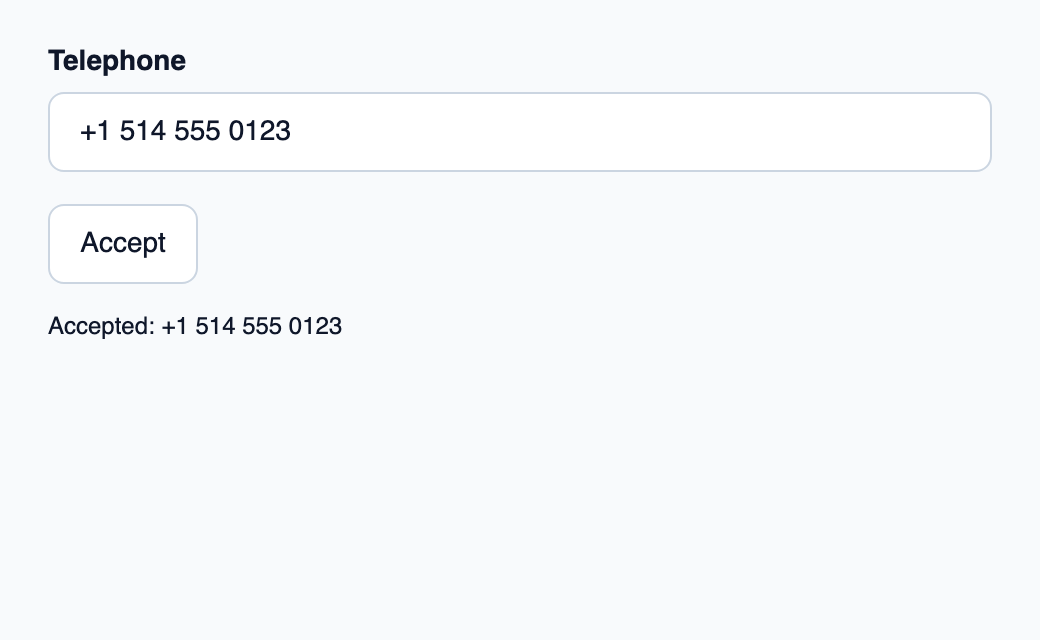
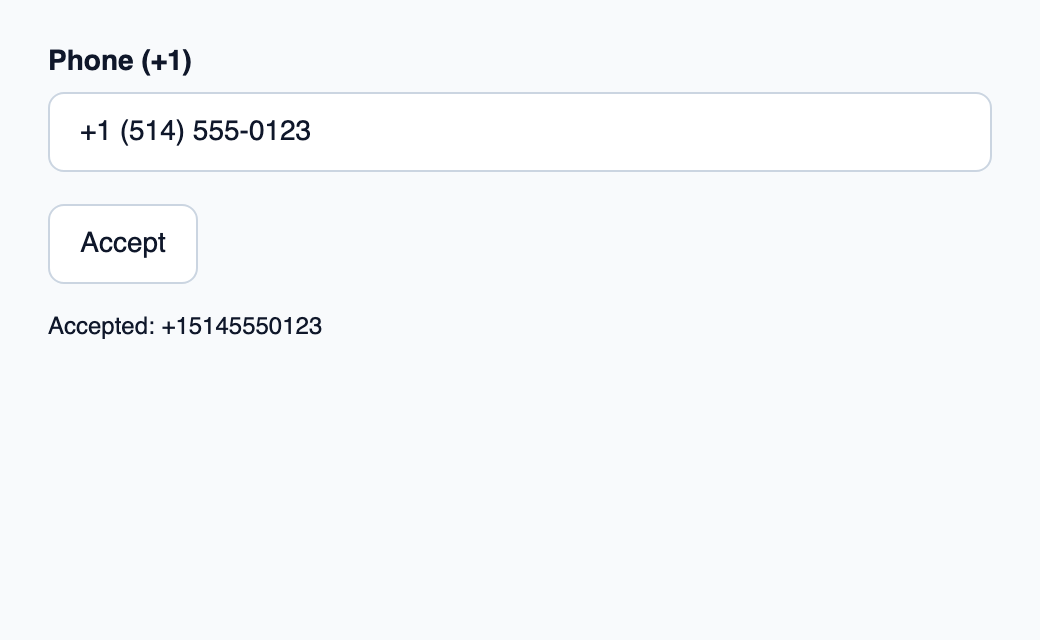
Document strict phone options and refresh the 0.3.1 telephone example

Changed region(s): [[0.0308, 0.0625, 0.1846, 0.125], [0.1846, 0.4688, 0.3385, 0.5312], [0.0923, 0.1875, 0.3077, 0.2188]]

diff --git a/docs/quickstart/telephone-field/src/main.rs b/docs/quickstart/telephone-field/src/main.rs
@@ -1,25 +1,18 @@
 use slint::ComponentHandle;
 use slint_kit::*;
 slint::include_modules!();
-#[derive(Clone, PartialEq)]
-struct Value(String);
-fn parse(text: &str) -> DraftValue<Value> {
-    if text.is_empty() {
-        DraftValue::Empty
-    } else {
-        DraftValue::Parsed(Value(text.into()))
-    }
+fn rules() -> PhoneRules {
+    PhoneRules::exact(slint_kit::PhoneNumberMode::International, 11).expect("11 digit phone rule")
 }
-fn format(value: &Value) -> String {
-    value.0.clone()
-}
+fn parse(text: &str) -> DraftValue<PhoneNumber> { rules().parse(text) }
+fn format(value: &PhoneNumber) -> String { value.as_str().into() }
 fn main() -> Result<(), slint::PlatformError> {
     let app = App::new()?;
     slint_kit::init_form_validation!(self, app);
-    let initial = Value("+1 514 555 0123".into());
+    let initial = rules().validate("+15145550123").unwrap().unwrap();
     app.set_accepted(format(&initial).into());
     let weak = app.as_weak();
-    let field = FieldBinding::<Value, ()>::new(
+    let field = FieldBinding::<PhoneNumber, ()>::new(
         Some(initial),
         Ownership::Local,
         CommitPolicy::OnBlur,
@@ -29,13 +22,17 @@ fn main() -> Result<(), slint::PlatformError> {
         |_| String::new(),
         move |view| {
             if let Some(app) = weak.upgrade() {
+                let intrinsic_invalid = view.html_validity.is_some_and(|flags| !flags.valid());
                 app.set_draft(view.draft.into());
-                app.set_error(view.error.into());
+                // The control presents matching intrinsic rules; Rust keeps business errors.
+                app.set_error(if intrinsic_invalid { String::new() } else { view.error }.into());
             }
         },
     );
+    field.set_draft_normalizer(|text| normalize_phone(text).map_err(|_| ParseIssue::InvalidSyntax));
     field.set_html_constraints(slint_kit::HtmlConstraints {
         kind: slint_kit::HtmlInputKind::Telephone, required: true,
+        pattern: Some(HtmlPattern::compile(r"\+1[0-9]{10}").expect("valid +1 pattern")),
         ..Default::default()
     });
     let weak = app.as_weak();

diff --git a/docs/scripts/pack-starters.py b/docs/scripts/pack-starters.py
@@ -5,6 +5,7 @@ from pathlib import Path
 import json
 import shutil
 import zipfile
+import tomllib
 
 root = Path(__file__).resolve().parents[2]
 docs = root / 'docs'
@@ -14,8 +15,10 @@ output.mkdir(parents=True)
 for slug in json.loads((docs / 'content/starters.json').read_text()):
     folder = docs / 'quickstart' / slug
     files = {name: (folder / name).read_bytes() for name in ['Cargo.toml', 'Cargo.lock', 'build.rs', 'src/main.rs', 'ui/app.slint']}
+    dependency = tomllib.loads(files['Cargo.toml'].decode())['dependencies']['slint-kit']
+    kit_version = (dependency if isinstance(dependency, str) else dependency['version']).removeprefix('=')
     files['LICENSE'] = (root / 'LICENSE').read_bytes()
-    files['README.md'] = f'# Slint Kit: {slug}\n\nRequires Rust1.92+. Run `cargo run --locked` in this folder.\n\nThis native example consumes Slint Kit0.3.0 and Slint1.18.1 from crates.io.\n\nhttps://slint-kit.dev/components/{slug}/\n'.replace('Rust1.92', 'Rust 1.92').replace('Kit0.3', 'Kit 0.3').replace('Slint1.18', 'Slint 1.18').encode()
+    files['README.md'] = f'# Slint Kit: {slug}\n\nRequires Rust1.92+. Run `cargo run --locked` in this folder.\n\nThis native example consumes Slint Kit{kit_version} and Slint1.18.1 from crates.io.\n\nhttps://slint-kit.dev/components/{slug}/\n'.replace('Rust1.92', 'Rust 1.92').replace('Kit0.3', 'Kit 0.3').replace('Slint1.18', 'Slint 1.18').encode()
     with zipfile.ZipFile(output / f'{slug}.zip', 'w', compression=zipfile.ZIP_DEFLATED) as archive:
         for name, content in sorted(files.items()):
             info = zipfile.ZipInfo(f'{slug}/{name}', date_time=(2026, 1, 1, 0, 0, 0))

diff --git a/docs/src/components.md b/docs/src/components.md
@@ -18,7 +18,7 @@ eleventyComputed:
 
 # {{ component | componentLabel(locale) }} {% if locale == 'fr' %}pour Slint{% else %}for Slint{% endif %}
 
-<p class="component-identifier"><code>{{ component.name }}</code> · Slint Kit 0.3.0</p>
+<p class="component-identifier"><code>{{ component.name }}</code> · Slint Kit 0.3.1</p>
 
 {{ text.summary }}
 
@@ -46,6 +46,8 @@ eleventyComputed:
 {{ text.usage | prose | safe }}
 
 {{ text.behavior | prose | safe }}
+
+{% if component.name == "KitTelephoneField" %}{% include "telephone-options.njk" %}{% endif %}
 
 {% if component.name == 'KitDataTable' %}{% if locale == 'fr' %}Pour relier réellement le tri, les touches et la sélection, utilisez l’[application complète de tableau triable](/fr/guides/table-example/).{% else %}To connect sorting, keyboard input and selection, use the [complete sortable table application](/guides/table-example/).{% endif %}{% endif %}
 

diff --git a/docs/src/fr/guides/forms.md b/docs/src/fr/guides/forms.md
@@ -22,7 +22,7 @@ KitEmailField {
 
 ## Initialiser la validation
 
-Les projets complets utilisent Slint Kit **0.3.0** et initialisent le moteur une fois par fenêtre. Pour l’ajouter à votre application, exportez ces types depuis le fichier Slint principal, puis installez le moteur dans Rust :
+Les projets complets utilisent Slint Kit **0.3** et initialisent le moteur une fois par fenêtre. Pour l’ajouter à votre application, exportez ces types depuis le fichier Slint principal, puis installez le moteur dans Rust :
 
 ```slint
 export { KitFormValidation, HtmlInputKind, NumberInputFormat,

diff --git a/docs/src/en/guides/forms.md b/docs/src/en/guides/forms.md
@@ -22,7 +22,7 @@ Fields already include `label`, `description` and `error`. [KitFieldLabel](/comp
 
 ## Initialize validation
 
-The complete projects use Slint Kit **0.3.0** and install the engine once per window. Export these types from your root Slint file, then initialize the Rust engine:
+The complete projects use Slint Kit **0.3** and install the engine once per window. Export these types from your root Slint file, then initialize the Rust engine:
 
 ```slint
 export { KitFormValidation, HtmlInputKind, NumberInputFormat,
